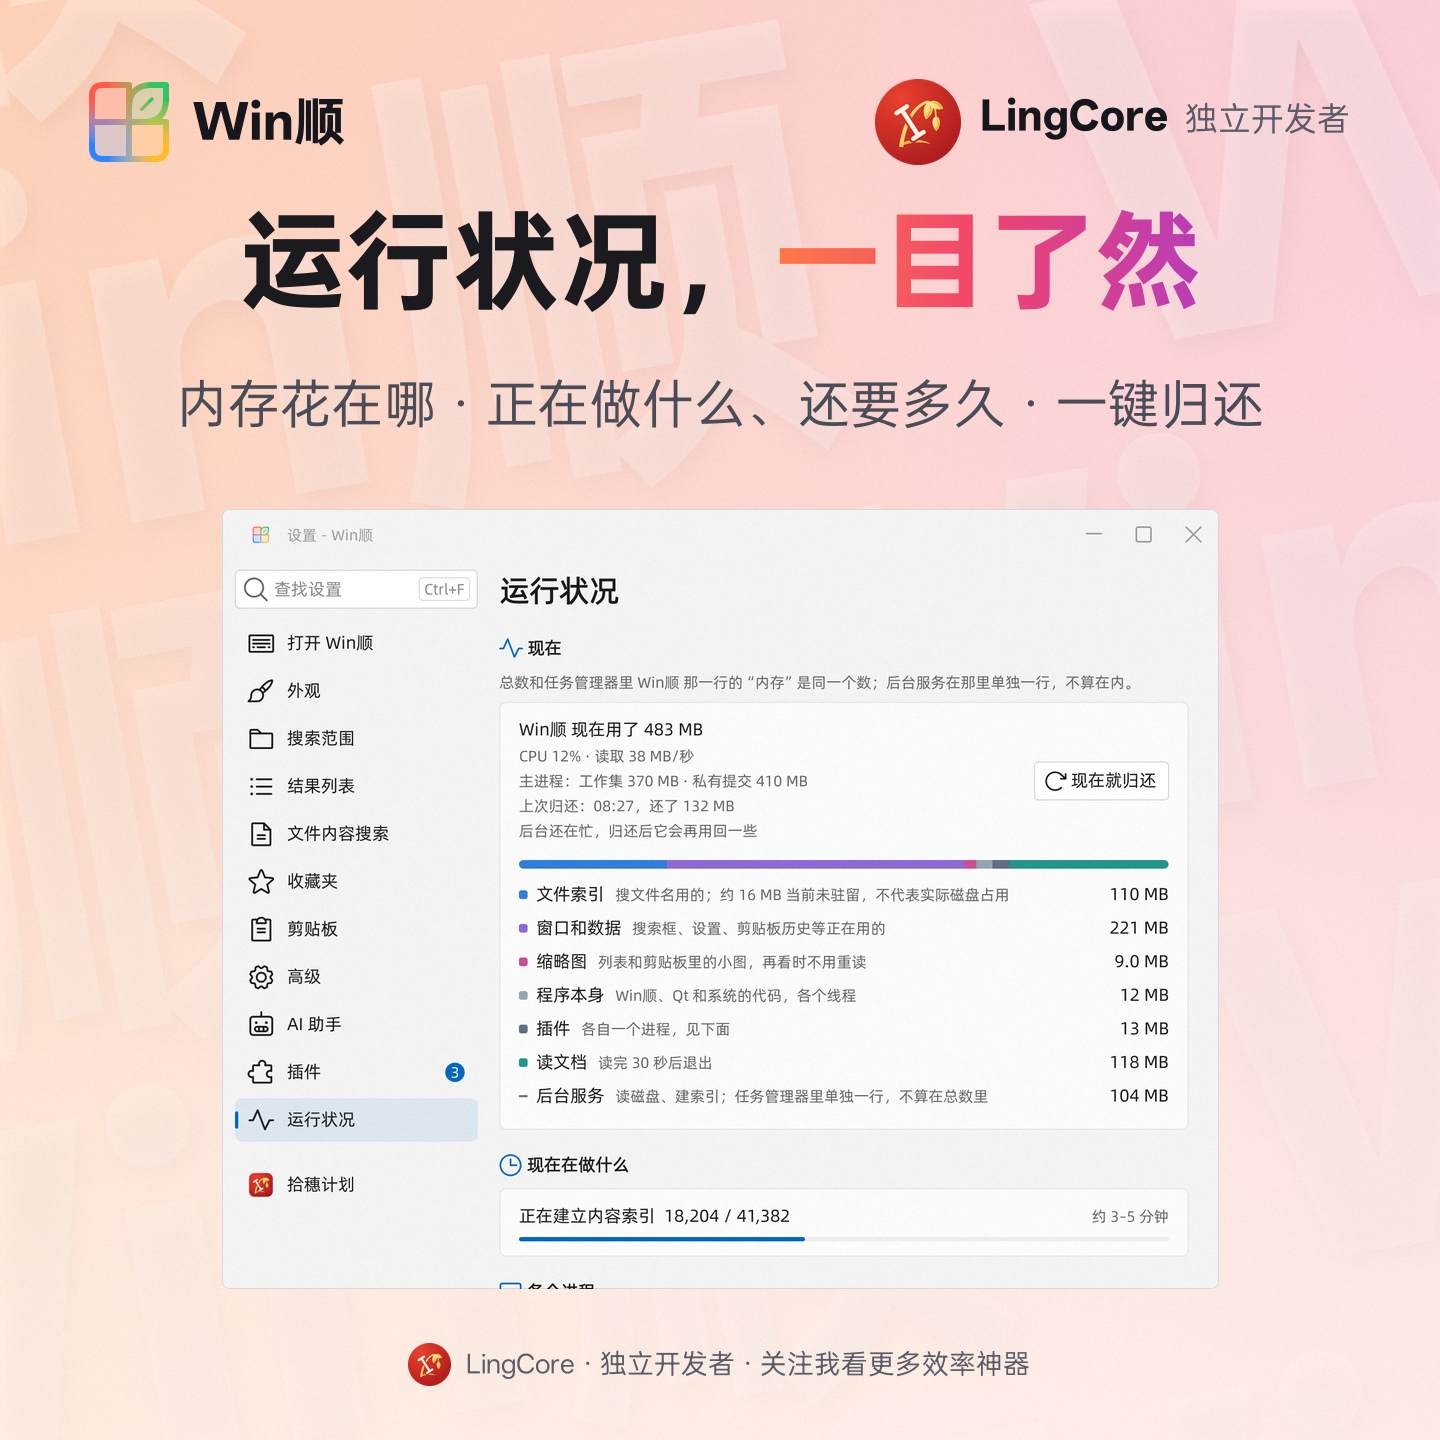
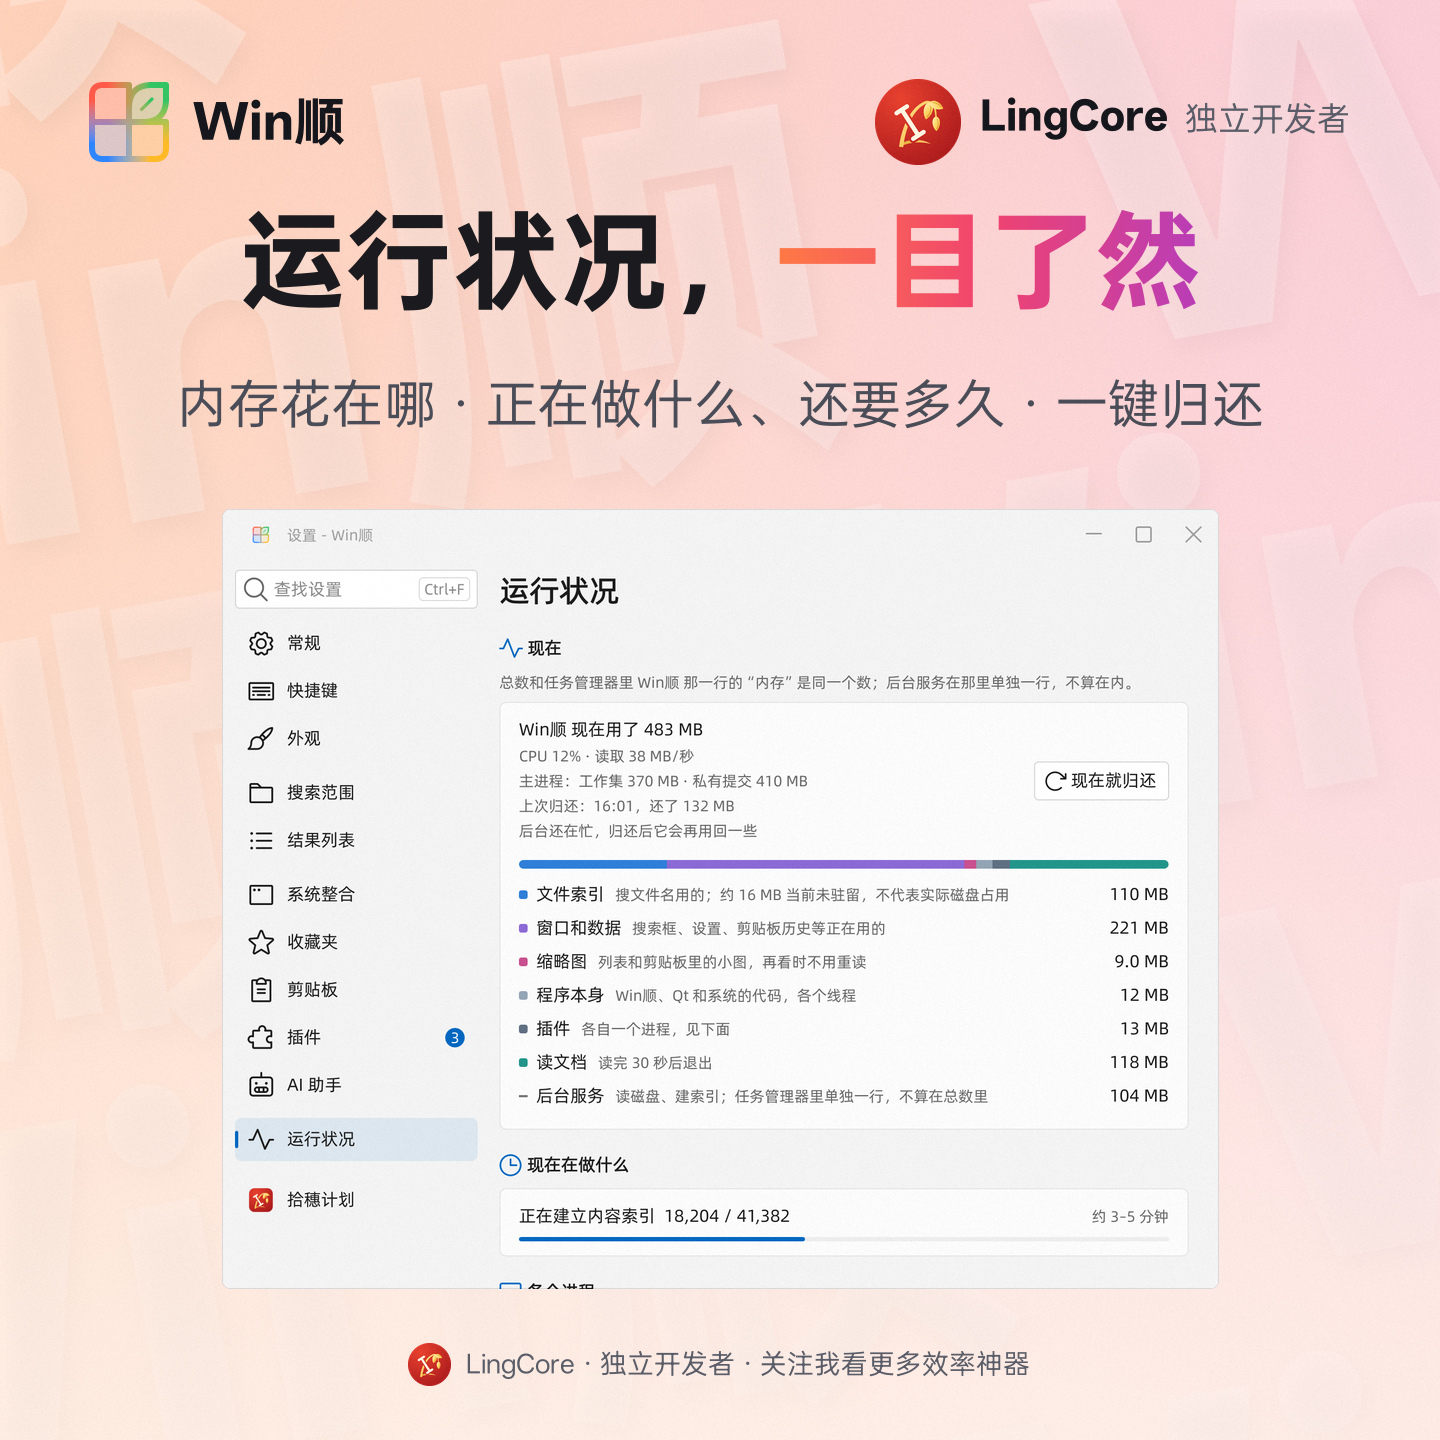
Posters: the settings pictures with the new categories (0.37.0)
Appearance, favorites, plugin library, search scope, exclude, admin paste,
taskbar and health, rendered by the 0.37.0 release build's settings preview.

Changed region(s): [[0.1562, 0.4375, 0.2812, 0.8438], [0.3125, 0.7188, 0.3438, 0.75]]

diff --git a/tools/screenshots/release037.py b/tools/screenshots/release037.py
@@ -1,0 +1,59 @@
+"""Redo the settings posters for 0.37.0: the settings window has fewer, clearer
+categories (常规, 快捷键, 外观, 搜索范围, 结果列表, 系统整合, 收藏夹, 剪贴板,
+插件, AI 助手, 运行状况, 拾穗计划), so every poster cut from a plain settings
+page is rendered again with the new side list.
+
+Same route as release036.py (whose capture and cuts it reuses): the release
+build's own production QML and controllers render every settings page at 200%
+offscreen, on a private preview profile and demo data, with a neutral
+USERPROFILE and TEMP. Copy the release's WinShun folder to C:\\WinShun first and
+pass that exe: the favorites and AI pages show the exe's own path.
+
+Pages by position (pNN-tM, page NN and tab M from 0): p02 外观, p03 搜索范围,
+p05 系统整合 (t0 任务栏), p06 收藏夹, p07 剪贴板 (t1 快捷键), p08 插件 (t1 插件库), p10 运行状况.
+
+  python tools/screenshots/release037.py --exe C:/WinShun/WinShun.exe --work build/release037-shots2 --capture-only
+  # look at <work>/settings/*.png, then
+  python tools/screenshots/release037.py --exe C:/WinShun/WinShun.exe --work build/release037-shots2 --export-only
+
+Posters whose pictures need other fixtures (file types, quick filters, dialog
+rules, double tap, fonts, network and WSL, backup, the settings search, plugin
+guide and review, the AI page made by the agent route) keep their earlier pictures.
+"""
+import sys
+
+sys.dont_write_bytecode = True
+
+import release036
+import shots
+
+# Posters that earlier release scripts added to the README set (titles as there).
+_known = {entry[0] for entry in shots.README_ONLY}
+shots.README_ONLY = tuple(shots.README_ONLY) + tuple(entry for entry in (
+    ("admin-paste", "L-admin-paste", "管理员程序里，[照样粘贴]", "索引服务替你按一次粘贴键 · CAD 和旧式对话框也能跳转"),
+    ("taskbar-side", "L-taskbar-side", "任务栏搜索框，[位置你来定]", "自动避开任务栏图标，或者始终停在托盘旁"),
+    ("health", "L-health", "运行状况，[一目了然]", "内存花在哪 · 正在做什么、还要多久 · 一键归还"),
+) if entry[0] not in _known)
+# The appearance poster's title since 0.23.0 (release023.py).
+shots.README_ONLY = tuple(
+    (entry[0], entry[1], "界面风格，[四种任选]", "精修原生 · 品牌色彩 · 轻拟物质感 · 液态玻璃") if entry[0] == "appearance" else entry
+    for entry in shots.README_ONLY)
+
+# The side list is two rows longer than in 0.36.0: it ends at 1298 (2x), so the
+# poster keeps more of the page (from the gap at 2180) and checks row 1300.
+release036.FROM = 2180
+release036.SIDE_END = 1300
+
+release036.SOURCES = {
+    "appearance": ("L-appearance", "settings/p02-t0.png", 1556),
+    "search-scope": ("L-search-scope", "settings/p03-t0.png", 1440),
+    "exclude": ("L-exclude", "settings/p03-t0.png", release036.scrolled_to_excluded),
+    "taskbar-side": ("L-taskbar-side", "settings/p05-t0.png", None),
+    "droppie": ("L-droppie", "settings/p06-t0.png", None),
+    "admin-paste": ("L-admin-paste", "settings/p07-t1.png", 1440),
+    "plugin-library": ("L-plugin-library", "settings/p08-t1.png", 1440),
+    "health": ("L-health", "settings/p10-t0.png", 1440),
+}
+
+if __name__ == "__main__":
+    release036.main()

diff --git a/tools/screenshots/release036.py b/tools/screenshots/release036.py
@@ -61,6 +61,7 @@ import shots
 # the side list and the page: the same plain colour). All pixels are the
 # render's own; nothing is drawn or retouched.
 HEADER, FROM, FOOTER, NAV = 300, 2195, 160, 490
+SIDE_END = 1280  # a plain row under the side list's last entry
 
 
 def scrolled_to_excluded(image):
@@ -75,7 +76,7 @@ def scrolled_to_excluded(image):
         "the row under the tabs": plain((NAV, HEADER, width, HEADER + 1)),
         "the row between the folder list and 排除目录": plain((NAV, FROM, width, FROM + 1)),
         "the gap between side list and page": plain((NAV - 10, 0, NAV + 10, height)),
-        "the side list's end": plain((0, 1280, NAV, 1281)),
+        "the side list's end": plain((0, SIDE_END, NAV, SIDE_END + 1)),
         "above the footer": plain((0, height - FOOTER, NAV, height - FOOTER + 1)),
     }
     bad = [name for name, ok in checks.items() if not ok]
